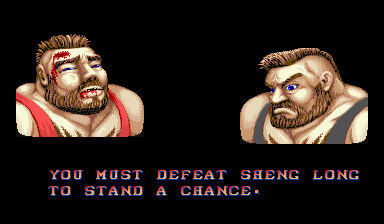
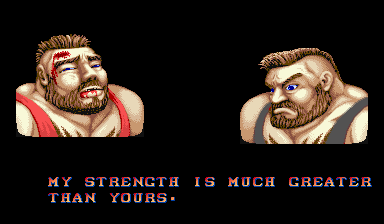
afegir w/l screen

Changed region(s): [[0.125, 0.75, 0.9688, 0.9062]]

diff --git a/Street Fighter (hangout 5)/ModuleCongratsScreen.cpp b/Street Fighter (hangout 5)/ModuleCongratsScreen.cpp
@@ -34,8 +34,8 @@ bool ModuleCongratsScreen::Start()
 {
 	LOG("Loading background assets");
 	bool ret = true;
-	graphics = App->textures->Load("media_files/congratsplayer1.png");
-	graphics2 = App->textures->Load("media_files/congratsplayer2.png");
+	graphics = App->textures->Load("media_files/p1_win.png");
+	graphics2 = App->textures->Load("media_files/p2_win.png");
 	congratsmusic = App->audio->Load("media_files/13 End Battle.ogg");
 	
 	App->audio->Play(congratsmusic, 0);
@@ -48,6 +48,7 @@ bool ModuleCongratsScreen::CleanUp()
 	// TODO 5: Remove all memory leaks
 	LOG("Unloading congrats stage");
 	App->textures->Unload(graphics);
+	App->textures->Unload(graphics2);
 	App->audio->Unload(congratsmusic);
 	return true;
 }
